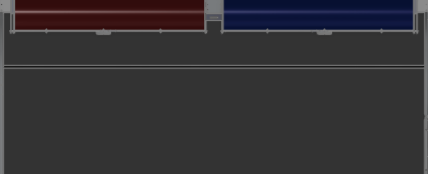
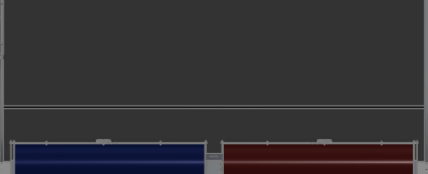
Data strcuture, prematch and endgame screens updated

diff --git a/scouting/sentinel/src/contexts/LogContext.tsx b/scouting/sentinel/src/contexts/LogContext.tsx
@@ -1,18 +1,18 @@
 import React, { createContext, MutableRefObject, useContext, useReducer, useRef } from 'react';
 import { EEventTypes, TLog } from '../../../common/types';
 import {
-  EEndgameLocation2024,
-  EPickupLocation2024,
-  EScoreLocation2024,
-  EStartLocation2024,
-  TEvent2024,
-} from '../../../common/types/2024';
+  EEndgameLocation2025,
+  EPickupLocation2025,
+  EScoreLocation2025,
+  EStartLocation2025,
+  TEvent2025,
+} from '../../../common/types/2025';
 import { useTimer } from './TimerContext';
 import { useAssignment } from './AssignmentContext';
 import { TLogActions } from '../../types';
 import { useFileManager } from '../hooks/useFileManager';
 
-const logDefault: TLog<TEvent2024> = {
+const logDefault: TLog<TEvent2025> = {
   teamNum: 0,
   matchNum: 0,
   scouter: '',
@@ -21,25 +21,25 @@ const logDefault: TLog<TEvent2024> = {
   events: [],
 };
 
-const LogContext: React.Context<MutableRefObject<TLog<TEvent2024>>> =
-  createContext<MutableRefObject<TLog<TEvent2024>>>(null);
+const LogContext: React.Context<MutableRefObject<TLog<TEvent2025>>> =
+  createContext<MutableRefObject<TLog<TEvent2025>>>(null);
 
 export const useSaveLog: () => () => Promise<string> = (): (() => Promise<string>) => {
-  const log = useContext<MutableRefObject<TLog<TEvent2024>>>(LogContext);
+  const log = useContext<MutableRefObject<TLog<TEvent2025>>>(LogContext);
   const fileManager = useFileManager();
 
   return async () => {
-    return fileManager.saveLog<TEvent2024>(log.current);
+    return fileManager.saveLog<TEvent2025>(log.current);
   };
 };
 
 export const useLog: () => TLogActions = (): TLogActions => {
-  const log = useContext<MutableRefObject<TLog<TEvent2024>>>(LogContext);
+  const log = useContext<MutableRefObject<TLog<TEvent2025>>>(LogContext);
   const assignment = useAssignment();
   const timer = useTimer();
 
   return {
-    addStartEvent: (location: EStartLocation2024) => {
+    addStartEvent: (location: EStartLocation2025) => {
       log.current = {
         teamNum: assignment.currentMatch.teamNum,
         matchNum: assignment.currentMatch.matchNum,
@@ -57,14 +57,14 @@ export const useLog: () => TLogActions = (): TLogActions => {
 
       timer.start();
     },
-    addPickupEvent: (location: EPickupLocation2024) => {
+    addPickupEvent: (location: EPickupLocation2025) => {
       log.current.events.push({
         type: EEventTypes.pickup,
         location,
         timestamp: timer.getTimeSeconds(),
       });
     },
-    modifyLastPickupEvent: (location: EPickupLocation2024) => {
+    modifyLastPickupEvent: (location: EPickupLocation2025) => {
       const idx = log.current.events.findLastIndex((event) => event.type === EEventTypes.pickup);
       if (idx !== -1) log.current.events[idx].location = location;
     },
@@ -74,21 +74,16 @@ export const useLog: () => TLogActions = (): TLogActions => {
         timestamp: timer.getTimeSeconds(),
       });
     },
-    addScoreEvent: (location: EScoreLocation2024, x: number, y: number) => {
-      x = Math.round(x + Number.EPSILON);
-      y = Math.round(y + Number.EPSILON);
+    addScoreEvent: (location: EScoreLocation2025, x: number, y: number) => {
       log.current.events.push({
         type: EEventTypes.score,
         location,
-        miss: false,
-        x,
-        y,
         timestamp: timer.getTimeSeconds(),
       });
     },
-    missedLastScore: () => {
+    undoLastScore: () => {
       const idx = log.current.events.findLastIndex((event) => event.type === EEventTypes.score);
-      if (idx !== -1) log.current.events[idx].miss = true;
+      if (idx !== -1) log.current.events.splice(idx, 1);
     },
     addAutoEvent: (leave: boolean) => {
       log.current.events.push({
@@ -98,19 +93,15 @@ export const useLog: () => TLogActions = (): TLogActions => {
       });
     },
     addEndgameEvent: (
-      location: EEndgameLocation2024,
+      location: EEndgameLocation2025,
       notes: string,
-      harmony: boolean,
-      trap: number,
-      spotlit: boolean
+      clearAlgae: boolean
     ) => {
       log.current.events.push({
         type: EEventTypes.endgame,
         location,
         notes,
-        harmony,
-        trap,
-        spotlit,
+        clearAlgae,
         timestamp: timer.getTimeSeconds(),
       });
     },
@@ -118,7 +109,7 @@ export const useLog: () => TLogActions = (): TLogActions => {
 };
 
 export function LogProvider({ children }: React.PropsWithChildren) {
-  const log = useRef<TLog<TEvent2024>>(logDefault);
+  const log = useRef<TLog<TEvent2025>>(logDefault);
 
   return <LogContext.Provider value={log}>{children}</LogContext.Provider>;
 }

diff --git a/scouting/sentinel/src/components/screens/Endgame.tsx b/scouting/sentinel/src/components/screens/Endgame.tsx
@@ -12,7 +12,7 @@ import {
 import { StyleSheet, Dimensions } from 'react-native';
 import { RadioButtonList } from '../basics/RadioButtonList';
 import { EAssignmentActionType, TRootStackParamList } from '../../../types';
-import { EEndgameLocation2024, TEvent2024 } from '../../../../common/types/2024';
+import { EEndgameLocation2025 } from '../../../../common/types/2025';
 import { RadioButton } from 'react-native-paper';
 import { useLog, useSaveLog } from '../../contexts/LogContext';
 import { useAssignmentDispatch } from '../../contexts/AssignmentContext';
@@ -23,8 +23,8 @@ const windowDimensions = Dimensions.get('window');
 export type PEndgameScreenProps = NativeStackScreenProps<TRootStackParamList, 'Endgame'>;
 
 export function Endgame({ navigation }: PEndgameScreenProps): React.JSX.Element {
-  const [endgameLocation, setEndgameLocation] = useState<EEndgameLocation2024>(
-    EEndgameLocation2024.none
+  const [endgameLocation, setEndgameLocation] = useState<EEndgameLocation2025>(
+    EEndgameLocation2025.none
   );
   const [spotlit, setSpotlit] = useState<'checked' | 'unchecked'>('unchecked');
   const [harmony, setHarmony] = useState<'checked' | 'unchecked'>('unchecked');
@@ -40,9 +40,7 @@ export function Endgame({ navigation }: PEndgameScreenProps): React.JSX.Element 
     log.addEndgameEvent(
       endgameLocation,
       `\"${notes}\"`,
-      harmony === 'checked',
-      trap,
-      spotlit === 'checked'
+      true, // TODO: Implement algae
     );
 
     assignmentDispatch({
@@ -60,48 +58,13 @@ export function Endgame({ navigation }: PEndgameScreenProps): React.JSX.Element 
       <VStack>
         <Text variant="h6">Stage:</Text>
         <RadioButtonList
-          labels={Object.values(EEndgameLocation2024)}
+          labels={Object.values(EEndgameLocation2025)}
           direction="row"
           selected={endgameLocation}
-          setSelected={(value: EEndgameLocation2024) => {
+          setSelected={(value: EEndgameLocation2025) => {
             setEndgameLocation(value);
           }}
         />
-        <Divider />
-        <RadioButton.Item
-          label="Spotlit"
-          value="Spotlit"
-          status={spotlit}
-          onPress={() => {
-            setSpotlit(spotlit === 'unchecked' ? 'checked' : 'unchecked');
-          }}
-        />
-        <Divider />
-        <RadioButton.Item
-          label="Harmony"
-          value="Harmony"
-          status={harmony}
-          onPress={() => {
-            setHarmony(harmony === 'unchecked' ? 'checked' : 'unchecked');
-          }}
-        />
-        <Divider />
-        <HStack
-          style={{ alignContent: 'center', alignItems: 'center', marginLeft: 13, marginRight: 10 }}
-        >
-          <Text>Trap</Text>
-          <Spacer />
-          <Button
-            title={trap.toString()}
-            compact
-            variant="outlined"
-            onPress={() => {
-              let newTrap: number = trap + 1;
-              if (newTrap >= 4) newTrap = 0;
-              setTrap(newTrap);
-            }}
-          />
-        </HStack>
         <Divider />
         <TextInput
           label="Notes"
@@ -114,7 +77,6 @@ export function Endgame({ navigation }: PEndgameScreenProps): React.JSX.Element 
           value={notes}
         />
       </VStack>
-
       <HStack>
         <Button
           title="Submit"

diff --git a/scouting/sentinel/src/components/screens/Prematch.tsx b/scouting/sentinel/src/components/screens/Prematch.tsx
@@ -3,7 +3,7 @@ import { Box, Text, Button, Pressable, HStack } from '@react-native-material/cor
 import { Image, StyleSheet } from 'react-native';
 import { RadioButtonList } from '../basics/RadioButtonList';
 import { ERobotState, TRootStackParamList } from '../../../types';
-import { EStartLocation2024 } from '../../../../common/types/2024';
+import { EStartLocation2025 } from '../../../../common/types/2025';
 import autoFieldImage from '../../../assets/autoField.png';
 import { AssignmentTable } from '../tables/AssignmentTable';
 import { useLog } from '../../contexts/LogContext';
@@ -12,14 +12,14 @@ import { NativeStackScreenProps } from '@react-navigation/native-stack';
 export type PPrematchScreen = NativeStackScreenProps<TRootStackParamList, 'Prematch'>;
 
 export function Prematch({ navigation }: PPrematchScreen): React.JSX.Element {
-  const locations: EStartLocation2024[] = Object.values(EStartLocation2024);
+  const locations: EStartLocation2025[] = Object.values(EStartLocation2025);
 
   const [startPosPressed, setStartPosPressed] = useState(new Array(locations.length).fill(false));
   const [preload, setPreload] = useState(ERobotState.empty);
   const log = useLog();
 
   const onConfirm = () => {
-    let startPos: EStartLocation2024 = EStartLocation2024.center;
+    let startPos: EStartLocation2025 = EStartLocation2025.center;
 
     locations.forEach((location, i) => {
       if (startPosPressed[i]) {
@@ -44,7 +44,7 @@ export function Prematch({ navigation }: PPrematchScreen): React.JSX.Element {
           <Text variant="h6">Pre-Load:</Text>
           <RadioButtonList
             direction="row"
-            labels={Object.values(ERobotState)}
+            labels={["Coral", "Emppty"]}
             selected={preload}
             setSelected={(value: ERobotState) => setPreload(value)}
           />
@@ -63,7 +63,7 @@ export function Prematch({ navigation }: PPrematchScreen): React.JSX.Element {
               backgroundColor: startPosPressed[i] ? 'rgba(0,0,0,0.5)' : 'rgba(0,0,0,0)',
             }}
             onPress={() => {
-              const newArr = new Array(4).fill(false);
+              const newArr = new Array(3).fill(false);
               newArr[i] = true;
               setStartPosPressed(newArr);
             }}
@@ -95,28 +95,21 @@ const styles = StyleSheet.create({
     marginLeft: 150,
     marginTop: 120,
   },
-  posFour: {
-    height: 225,
-    left: autoAreaLeft + 220 + 185 + 220,
-    position: 'absolute',
-    top: autoAreaTop,
-    width: 375,
-  },
-  posOne: {
+  left: {
     height: 225,
     left: autoAreaLeft,
     position: 'absolute',
     top: autoAreaTop,
     width: 220,
   },
-  posThree: {
+  center: {
     height: 225,
     left: autoAreaLeft + 220 + 185,
     position: 'absolute',
     top: autoAreaTop,
     width: 220,
   },
-  posTwo: {
+  right: {
     height: 120,
     left: autoAreaLeft + 220,
     position: 'absolute',
@@ -124,4 +117,4 @@ const styles = StyleSheet.create({
     width: 185,
   },
 });
-const posStyles = [styles.posOne, styles.posTwo, styles.posThree, styles.posFour];
+const posStyles = [styles.left, styles.center, styles.right];

diff --git a/scouting/sentinel/types/TLogActions.ts b/scouting/sentinel/types/TLogActions.ts
@@ -1,18 +1,16 @@
-import { EStartLocation2024, EPickupLocation2024, EScoreLocation2024, EEndgameLocation2024 } from "../../common/types/2024";
+import { EStartLocation2025, EPickupLocation2025, EScoreLocation2025, EEndgameLocation2025 } from "../../common/types/2025";
 
 export type TLogActions = {
-  addStartEvent: (location: EStartLocation2024) => void;
-  addPickupEvent: (location: EPickupLocation2024) => void;
-  modifyLastPickupEvent: (location: EPickupLocation2024) => void;
+  addStartEvent: (location: EStartLocation2025) => void;
+  addPickupEvent: (location: EPickupLocation2025) => void;
+  modifyLastPickupEvent: (location: EPickupLocation2025) => void;
   addDropEvent: () => void;
-  addScoreEvent: (location: EScoreLocation2024, x: number, y: number) => void;
-  missedLastScore: () => void;
+  addScoreEvent: (location: EScoreLocation2025, x: number, y: number) => void;
+  undoLastScore: () => void;
   addAutoEvent: (leave: boolean) => void;
   addEndgameEvent: (
-    location: EEndgameLocation2024,
+    location: EEndgameLocation2025,
     notes: string,
-    harmony: boolean,
-    trap: number,
-    spotlit: boolean
+    clearAlgae: boolean
   ) => void;
 };

diff --git a/scouting/common/types/2025/Event2025.ts b/scouting/common/types/2025/Event2025.ts
@@ -9,14 +9,9 @@ class ClassEvent2025 {
   timestamp?: number = 0;
   location?: EStartLocation2025 | EPickupLocation2025 | EScoreLocation2025 | EEndgameLocation2025 =
     EStartLocation2025.center;
-  x?: number = 0;
-  y?: number = 0;
   leave?: boolean = false;
   notes?: string = '';
-  harmony?: boolean = false;
-  spotlit?: boolean = false;
-  trap?: number = 0;
-  miss?: boolean = false;
+  clearAlgae?: boolean = false;
 }
 
 export interface TEvent2025 extends ClassEvent2025 {}

diff --git a/scouting/common/types/2025/EScoreLocation2025.ts b/scouting/common/types/2025/EScoreLocation2025.ts
@@ -1,4 +1,8 @@
 export enum EScoreLocation2025 {
-  speaker = 'speaker',
-  amp = 'amp',
+  reefL1 = 'reefL1',
+  reefL2 = 'reefL2',
+  reefL3 = 'reefL3',
+  reefL4 = 'reefL4',
+  processor = 'processor',
+  net = 'net',
 }

diff --git a/scouting/sentinel/src/components/screens/Teleop.tsx b/scouting/sentinel/src/components/screens/Teleop.tsx
@@ -72,7 +72,7 @@ export function Teleop({
   };
 
   const onMiss: () => void = (): void => {
-    log.missedLastScore();
+    log.undoLastScore();
     setMissable(false);
     clearRobotStateAndPickup();
   };

diff --git a/scouting/common/types/2025/EEndgameLocation2025.ts b/scouting/common/types/2025/EEndgameLocation2025.ts
@@ -1,5 +1,6 @@
 export enum EEndgameLocation2025 {
   none = 'none',
   park = 'park',
-  onstage = 'onstage',
+  deep = 'deep',
+  shallow = 'shallow'
 }

diff --git a/scouting/common/types/2025/EPickupLocation2025.ts b/scouting/common/types/2025/EPickupLocation2025.ts
@@ -1,4 +1,4 @@
 export enum EPickupLocation2025 {
-  source = 'source',
+  coralStation = 'coralStation',
   floor = 'floor',
 }

diff --git a/scouting/common/types/2025/EStartLocation2025.ts b/scouting/common/types/2025/EStartLocation2025.ts
@@ -2,5 +2,4 @@ export enum EStartLocation2025 {
   left = 'left',
   center = 'center',
   right = 'right',
-  far = 'far',
 }

diff --git a/scouting/sentinel/types/ERobotState.ts b/scouting/sentinel/types/ERobotState.ts
@@ -1,4 +1,5 @@
 export enum ERobotState {
-  note = 'note',
+  coral = 'coral',
+  algae = 'algae',
   empty = 'empty',
 }
